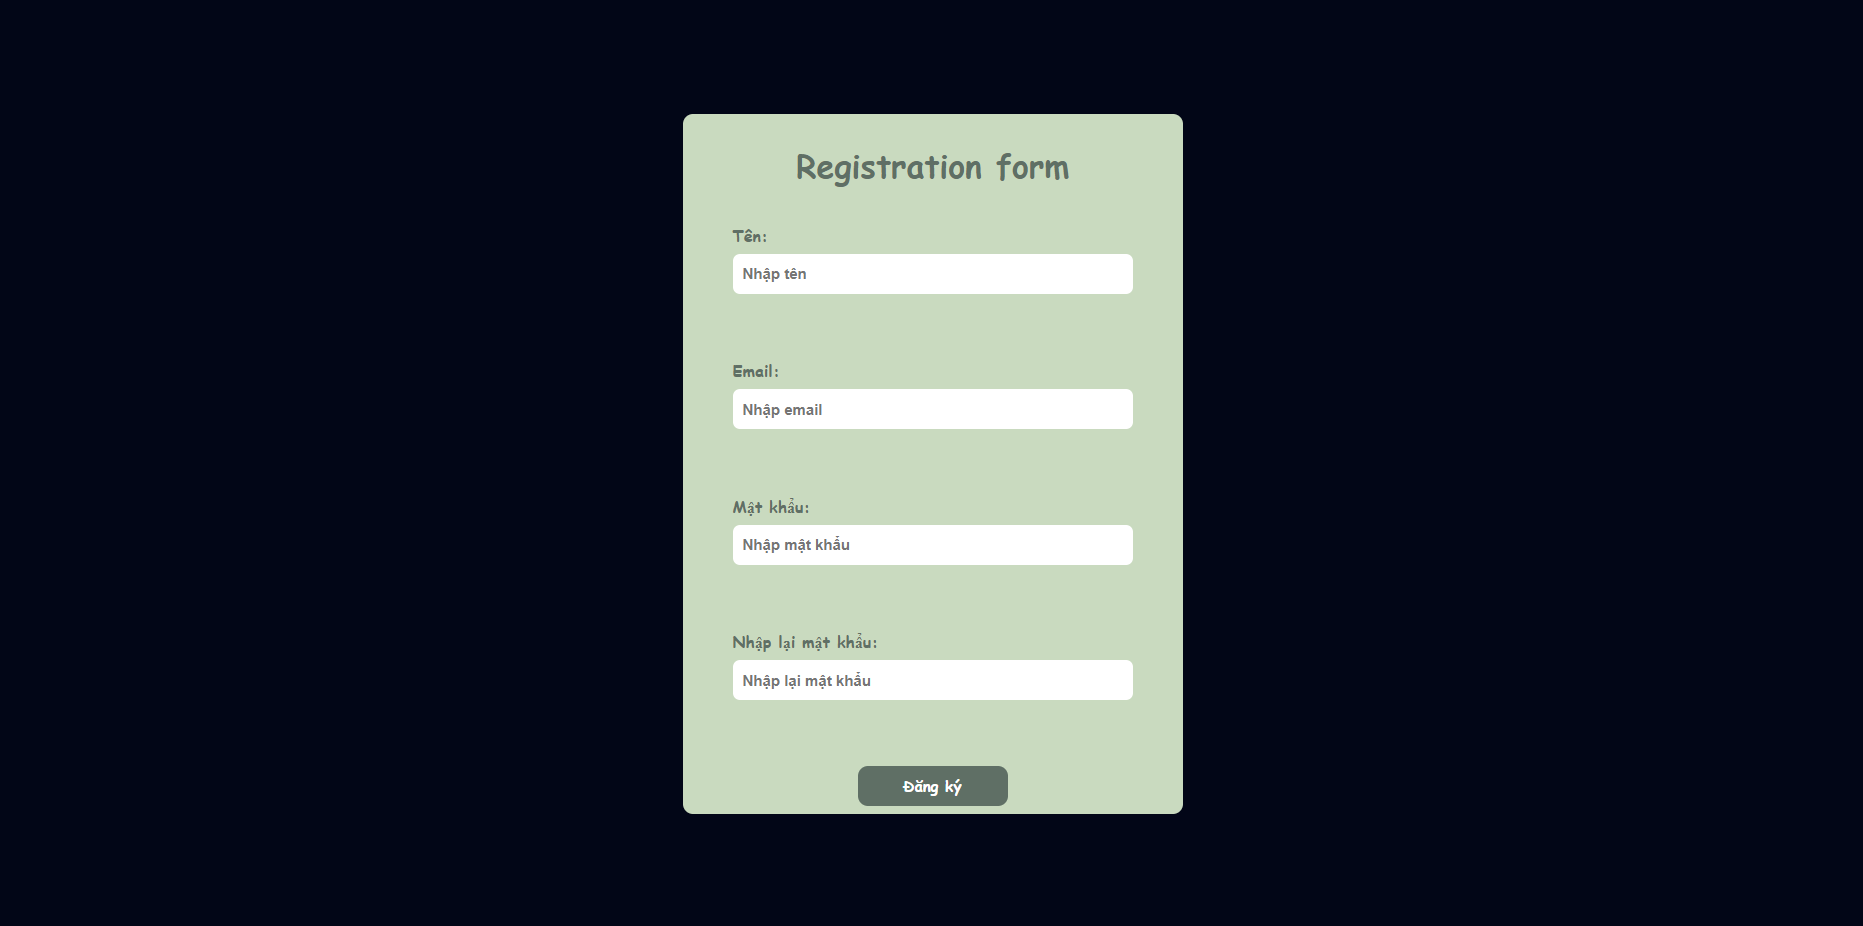
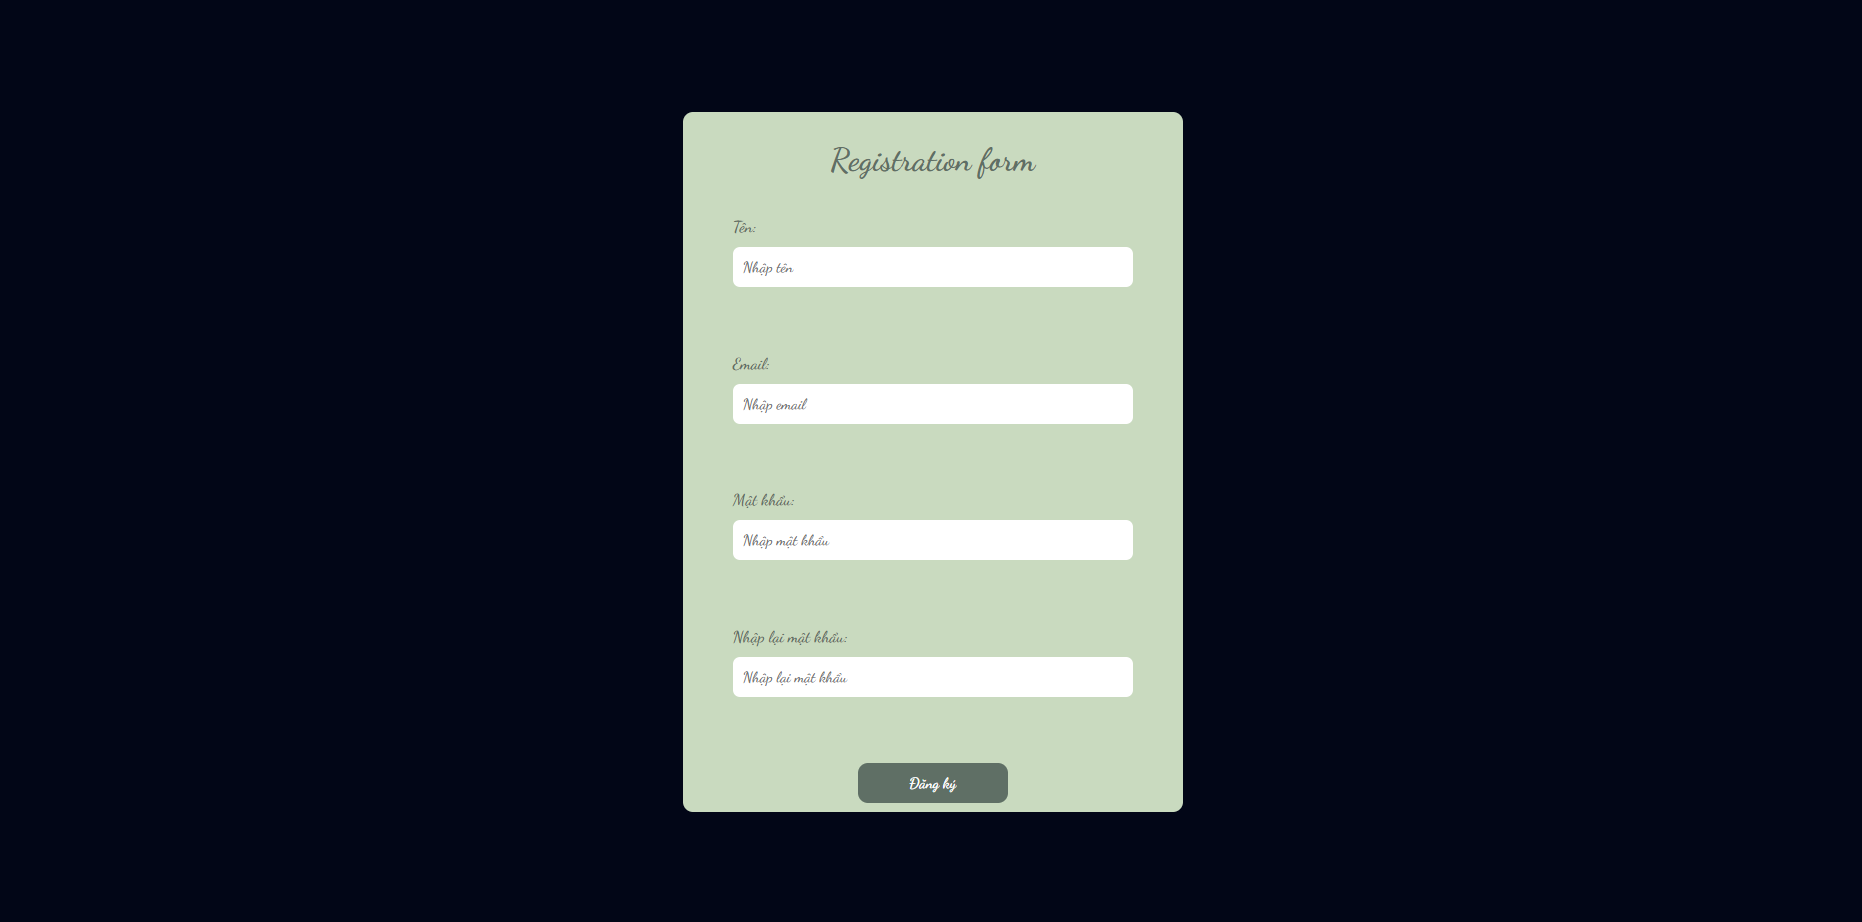
fix: updated fontFamily lab2/style.css file and updated images

diff --git a/lab3/script.js b/lab3/script.js
@@ -117,33 +117,6 @@ btnNext.addEventListener("click", () => {
   changeImage(1);
 });
 
-// thumbnails.forEach((thumbnail, index) => {
-//   thumbnail.addEventListener("click", () => {
-//     modal.style.display = "block";
-//     setTimeout(() => {
-//       modal.classList.add("show");
-//     }, 10);
-//     modalImg.src = thumbnail.src;
-//     captionText.innerHTML = thumbnail.alt;
-//     currentIndex = index;
-//   });
-// });
-
-// document.querySelector(".close").addEventListener("click", () => {
-//   modal.classList.remove("show");
-//   setTimeout(() => {
-//     modal.style.display = "none";
-//   }, 500);
-// });
-
-// document.querySelector(".prev").addEventListener("click", () => {
-//   changeImage(-1);
-// });
-
-// document.querySelector(".next").addEventListener("click", () => {
-//   changeImage(1);
-// });
-
 function changeImage(direction) {
   modalImg.classList.add("fade-in");
   currentIndex =
@@ -159,8 +132,5 @@ function changeImage(direction) {
     modalImg.style.transform = "translateX(0)";
     modalImg.style.transition =
       "transform 1s ease-in-out, opacity 1s ease-in-out";
-    // setTimeout(() => {
-    //   modalImg.style.transform = "translateX(0)";
-    // }, 100);
   }, 800);
 }

diff --git a/lab2/styles.css b/lab2/styles.css
@@ -53,6 +53,7 @@ h1{
     padding-left: 10px;
     box-sizing: border-box;
     color: #5F6F65 ;
+    font-family: "Dancing Script", cursive;
 }
 
 .block .errorMessage{
@@ -64,6 +65,7 @@ h1{
     align-items: start;
     padding-top: 10px;
     box-sizing: border-box;
+    font-family: "Dancing Script", cursive;
 }
 
 button{
